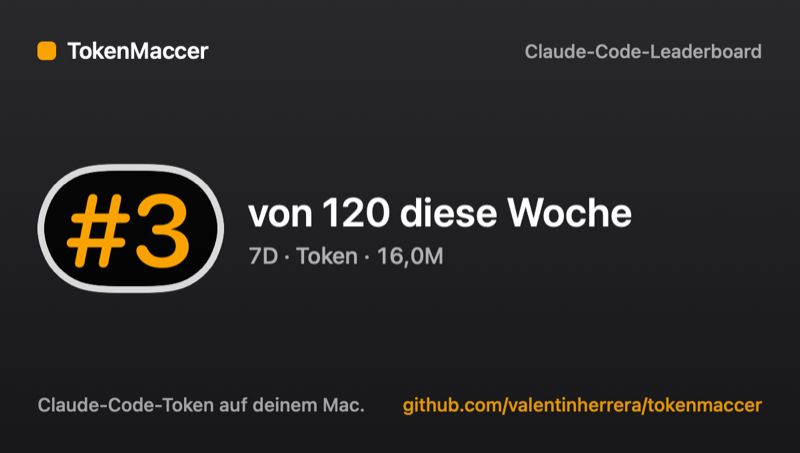
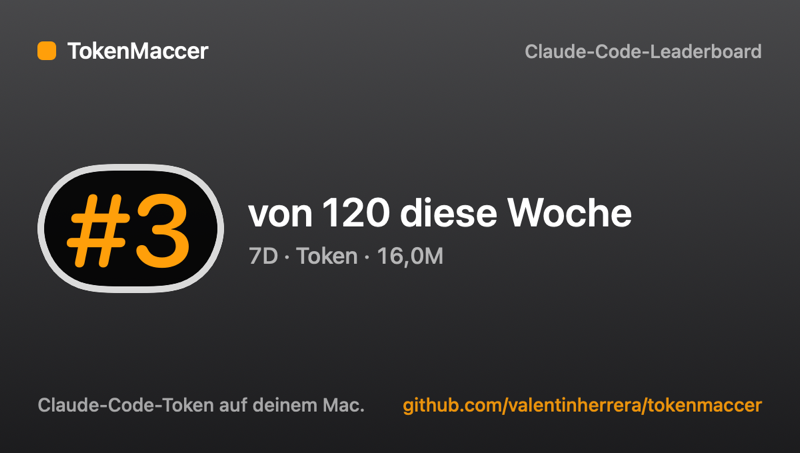
Download page: colours only from the Graphite & Amber roles in docs/assets/colors.css (copied unchanged, with its source), no colour values of its own in the page; screenshots re-rendered with the new app colours (EN/DE, light/dark)
Mapping: bg, surface, text, text-secondary, border, accent (links, highlight, focus ring), button-bg/button-text (download button). The former code background becomes surface; the language switch is surface with the active choice on bg (secondary text on the border colour would be 3.94:1). Shadows stay plain black at low opacity.

Changed region(s): [[0.0, 0.0, 1.0, 0.2781], [0.1875, 0.4945, 0.2188, 0.5254], [0.125, 0.5254, 0.1562, 0.5563]]

diff --git a/docs/index.html b/docs/index.html
@@ -10,92 +10,70 @@
 <!-- Static page for GitHub Pages (source: main, /docs). No build step, no external requests: no web fonts, no
      analytics, no third-party scripts. Screenshots are rendered from made-up demo data (scripts/make_demo.py and the
      fixtures in app/Preview), never from anyone's real usage. -->
+<link rel="stylesheet" href="assets/colors.css">
 <style>
-  :root {
-    --bg: #f6f5f2;
-    --surface: #ffffff;
-    --text: #1d1d1f;
-    --muted: #5e5e63;
-    --line: #e2e0da;
-    --amber: #b86e00;      /* the icon's amber, darkened for text on light backgrounds (contrast >= 4.5:1) */
-    --amber-fill: #faa300; /* the icon's amber as a fill */
-    --button-text: #1a1a1b;
-    --code-bg: #efede7;
-  }
-  @media (prefers-color-scheme: dark) {
-    :root {
-      --bg: #161617;
-      --surface: #1f1f21;
-      --text: #f2f2f4;
-      --muted: #a5a5ab;
-      --line: #313134;
-      --amber: #ffb53d;
-      --amber-fill: #faa300;
-      --button-text: #1a1a1b;
-      --code-bg: #29292c;
-    }
-  }
+  /* colours: only the semantic roles of assets/colors.css (Graphite & Amber), no values of its own */
   * { box-sizing: border-box; }
   html { -webkit-text-size-adjust: 100%; }
   body {
     margin: 0;
-    background: var(--bg);
-    color: var(--text);
+    background: var(--color-bg);
+    color: var(--color-text);
     font: 17px/1.55 -apple-system, BlinkMacSystemFont, "SF Pro Text", "Helvetica Neue", Helvetica, Arial, sans-serif;
   }
-  a { color: var(--amber); }
+  a { color: var(--color-accent); }
   .wrap { max-width: 1040px; margin: 0 auto; padding: 0 16px; }
   header { display: flex; align-items: center; justify-content: space-between; padding: 18px 0; }
-  .brand { display: flex; align-items: center; gap: 10px; font-weight: 600; font-size: 18px; color: var(--text); text-decoration: none; }
+  .brand { display: flex; align-items: center; gap: 10px; font-weight: 600; font-size: 18px; color: var(--color-text); text-decoration: none; }
   .brand img { width: 32px; height: 32px; }
-  .lang { display: flex; gap: 2px; background: var(--code-bg); border-radius: 8px; padding: 2px; }
+  .lang { display: flex; gap: 2px; background: var(--color-surface); border-radius: 8px; padding: 2px; }
   .lang button {
-    border: 0; background: transparent; color: var(--muted); font: inherit; font-size: 14px; font-weight: 600;
+    border: 0; background: transparent; color: var(--color-text-secondary); font: inherit; font-size: 14px; font-weight: 600;
     padding: 4px 10px; border-radius: 6px; cursor: pointer;
   }
-  .lang button[aria-pressed="true"] { background: var(--surface); color: var(--text); box-shadow: 0 1px 2px rgba(0,0,0,.12); }
+  .lang button[aria-pressed="true"] { background: var(--color-bg); color: var(--color-text); box-shadow: 0 1px 2px rgba(0,0,0,.12); }
 
   .hero { display: grid; grid-template-columns: 1.05fr 1fr; gap: 48px; align-items: center; padding: 40px 0 56px; }
   h1 { font-size: 52px; line-height: 1.06; letter-spacing: -0.02em; margin: 0 0 18px; }
-  h1 em { font-style: normal; color: var(--amber); }
-  .lede { font-size: 20px; color: var(--muted); margin: 0 0 28px; max-width: 34em; }
+  h1 em { font-style: normal; color: var(--color-accent); }
+  .lede { font-size: 20px; color: var(--color-text-secondary); margin: 0 0 28px; max-width: 34em; }
   .cta { display: flex; flex-wrap: wrap; align-items: center; gap: 14px 18px; }
   .download {
-    display: inline-flex; align-items: center; gap: 10px; background: var(--amber-fill); color: var(--button-text);
+    display: inline-flex; align-items: center; gap: 10px; background: var(--color-button-bg); color: var(--color-button-text);
     font-weight: 650; font-size: 18px; padding: 14px 24px; border-radius: 12px; text-decoration: none;
   }
   .download:hover { filter: brightness(1.05); }
-  .download:focus-visible, .lang button:focus-visible { outline: 3px solid var(--amber); outline-offset: 3px; }
-  .req { color: var(--muted); font-size: 14px; }
+  .download:focus-visible, .lang button:focus-visible { outline: 3px solid var(--color-accent); outline-offset: 3px; }
+  .req { color: var(--color-text-secondary); font-size: 14px; }
   /* no display on .steps itself: the language switch shows it with display: revert */
   .steps { list-style: none; counter-reset: step; margin: 26px 0 0; padding: 0; max-width: 34em; }
   .steps li + li { margin-top: 10px; }
   .steps li { counter-increment: step; display: grid; grid-template-columns: 28px 1fr; gap: 12px; align-items: baseline; font-size: 16px; }
   .steps li::before {
     content: counter(step); display: inline-grid; place-items: center; width: 26px; height: 26px; border-radius: 50%;
-    background: var(--code-bg); color: var(--text); font-weight: 650; font-size: 14px;
+    background: var(--color-surface); color: var(--color-text); font-weight: 650; font-size: 14px;
   }
   .steps strong { font-weight: 650; }
-  .soon { display: inline-block; font-size: 13px; font-weight: 650; color: var(--muted); background: var(--code-bg);
+  .soon { display: inline-block; font-size: 13px; font-weight: 650; color: var(--color-text-secondary); background: var(--color-surface);
     border-radius: 6px; padding: 2px 8px; margin-left: 8px; vertical-align: middle; letter-spacing: 0; }
   .hero figure { margin: 0; justify-self: center; }
   .hero img { width: 100%; max-width: 420px; height: auto; display: block; border-radius: 26px; box-shadow: 0 18px 50px rgba(0,0,0,.18); }
 
-  section { padding: 48px 0; border-top: 1px solid var(--line); }
+  section { padding: 48px 0; border-top: 1px solid var(--color-border); }
   h2 { font-size: 30px; letter-spacing: -0.01em; margin: 0 0 12px; }
-  .sub { color: var(--muted); margin: 0 0 28px; max-width: 40em; }
+  .sub { color: var(--color-text-secondary); margin: 0 0 28px; max-width: 40em; }
   .shots { display: grid; grid-template-columns: repeat(3, 1fr); gap: 24px; align-items: start; }
-  .shot { margin: 0; background: var(--surface); border: 1px solid var(--line); border-radius: 16px; padding: 18px; }
+  .shot { margin: 0; background: var(--color-surface); border: 1px solid var(--color-border); border-radius: 16px; padding: 18px; }
   .shot img { width: 100%; height: auto; display: block; border-radius: 10px; }
-  .shot figcaption { margin-top: 12px; font-size: 15px; color: var(--muted); }
-  .shot figcaption strong { color: var(--text); display: block; font-size: 16px; }
+  .shot figcaption { margin-top: 12px; font-size: 15px; color: var(--color-text-secondary); }
+  .shot figcaption strong { color: var(--color-text); display: block; font-size: 16px; }
   .card img { width: 100%; max-width: 640px; height: auto; display: block; border-radius: 14px; }
 
   .privacy p { max-width: 44em; margin: 0 0 12px; }
-  pre { background: var(--code-bg); padding: 14px 16px; border-radius: 10px; overflow-x: auto; font-size: 15px; margin: 0 0 10px; }
+  pre { background: var(--color-surface); padding: 14px 16px; border-radius: 10px; overflow-x: auto; font-size: 15px; margin: 0 0 10px; }
   code { font-family: ui-monospace, "SF Mono", Menlo, monospace; }
-  .note { color: var(--muted); font-size: 15px; }
-  footer { border-top: 1px solid var(--line); padding: 28px 0 44px; color: var(--muted); font-size: 14px; }
+  .note { color: var(--color-text-secondary); font-size: 15px; }
+  footer { border-top: 1px solid var(--color-border); padding: 28px 0 44px; color: var(--color-text-secondary); font-size: 14px; }
   footer p { margin: 0 0 6px; }
 
   [data-lang] { display: none; }

diff --git a/docs/assets/colors.css b/docs/assets/colors.css
@@ -1,0 +1,65 @@
+/* Source: farbsystem-graphit-amber.css, the "Graphite & Amber" colour system (Valentin, 02.11.2026), copied unchanged below.
+   docs/index.html uses only its semantic roles (--color-*); change the palette there, not in the page. */
+
+/* Farbsystem: Graphit & Amber
+   Abgeleitet vom App-Icon (Farbsystem B) und von Apples Systemfarben.
+   Amber nur auf dunklem Grund; auf hellem Grund --amber-text verwenden. */
+
+:root {
+  /* Palette */
+  --graphite-900: #1C1C1E;
+  --graphite-800: #2C2C2E;
+  --graphite-700: #3A3A3C;
+  --graphite-600: #48484A;
+  --gray-500: #636366;
+  --gray-400: #8E8E93;
+  --gray-300: #AEAEB2;
+  --gray-200: #C7C7CC;
+  --gray-100: #D1D1D6;
+  --gray-50: #E5E5EA;
+  --gray-25: #F2F2F7;
+  --white: #FFFFFF;
+  --amber: #FF9F0A;
+  --amber-text: #C93400;
+
+  /* Verläufe aus dem Icon */
+  --gradient-field: linear-gradient(180deg, #48484A 0%, #1C1C1E 100%);
+  --gradient-frame: linear-gradient(180deg, #E5E5EA 0%, #AEAEB2 100%);
+  --gradient-display: linear-gradient(180deg, #FFFFFF 0%, #E5E5EA 100%);
+
+  /* Semantische Rollen – Light */
+  --color-bg: var(--gray-25);
+  --color-surface: var(--white);
+  --color-text: var(--graphite-900);
+  --color-text-secondary: var(--gray-500);
+  --color-border: var(--gray-100);
+  --color-accent: var(--amber-text);
+  --color-button-bg: var(--graphite-900);
+  --color-button-text: var(--amber);
+
+  color-scheme: light dark;
+}
+
+@media (prefers-color-scheme: dark) {
+  :root:not([data-theme="light"]) {
+    --color-bg: var(--graphite-900);
+    --color-surface: var(--graphite-800);
+    --color-text: var(--white);
+    --color-text-secondary: var(--gray-300);
+    --color-border: var(--graphite-700);
+    --color-accent: var(--amber);
+    --color-button-bg: var(--amber);
+    --color-button-text: var(--graphite-900);
+  }
+}
+
+:root[data-theme="dark"] {
+  --color-bg: var(--graphite-900);
+  --color-surface: var(--graphite-800);
+  --color-text: var(--white);
+  --color-text-secondary: var(--gray-300);
+  --color-border: var(--graphite-700);
+  --color-accent: var(--amber);
+  --color-button-bg: var(--amber);
+  --color-button-text: var(--graphite-900);
+}
